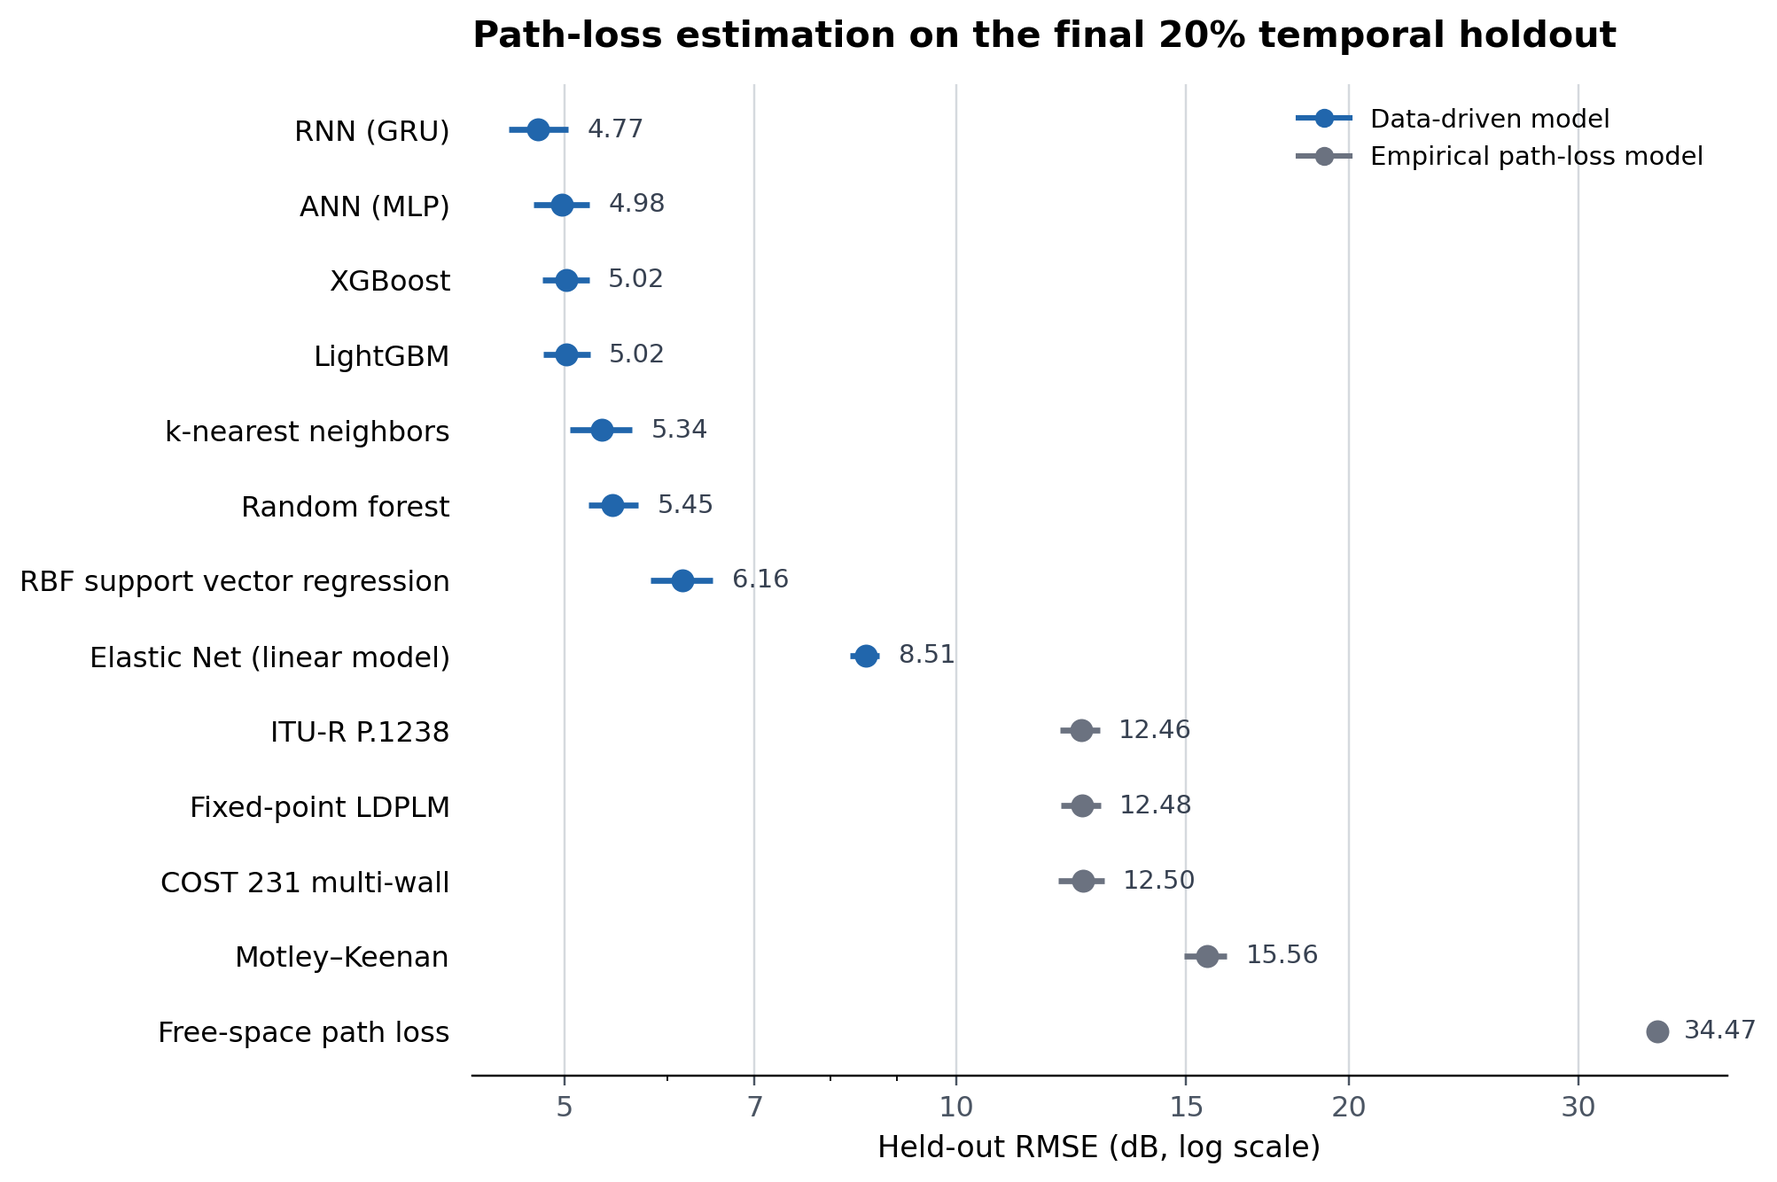
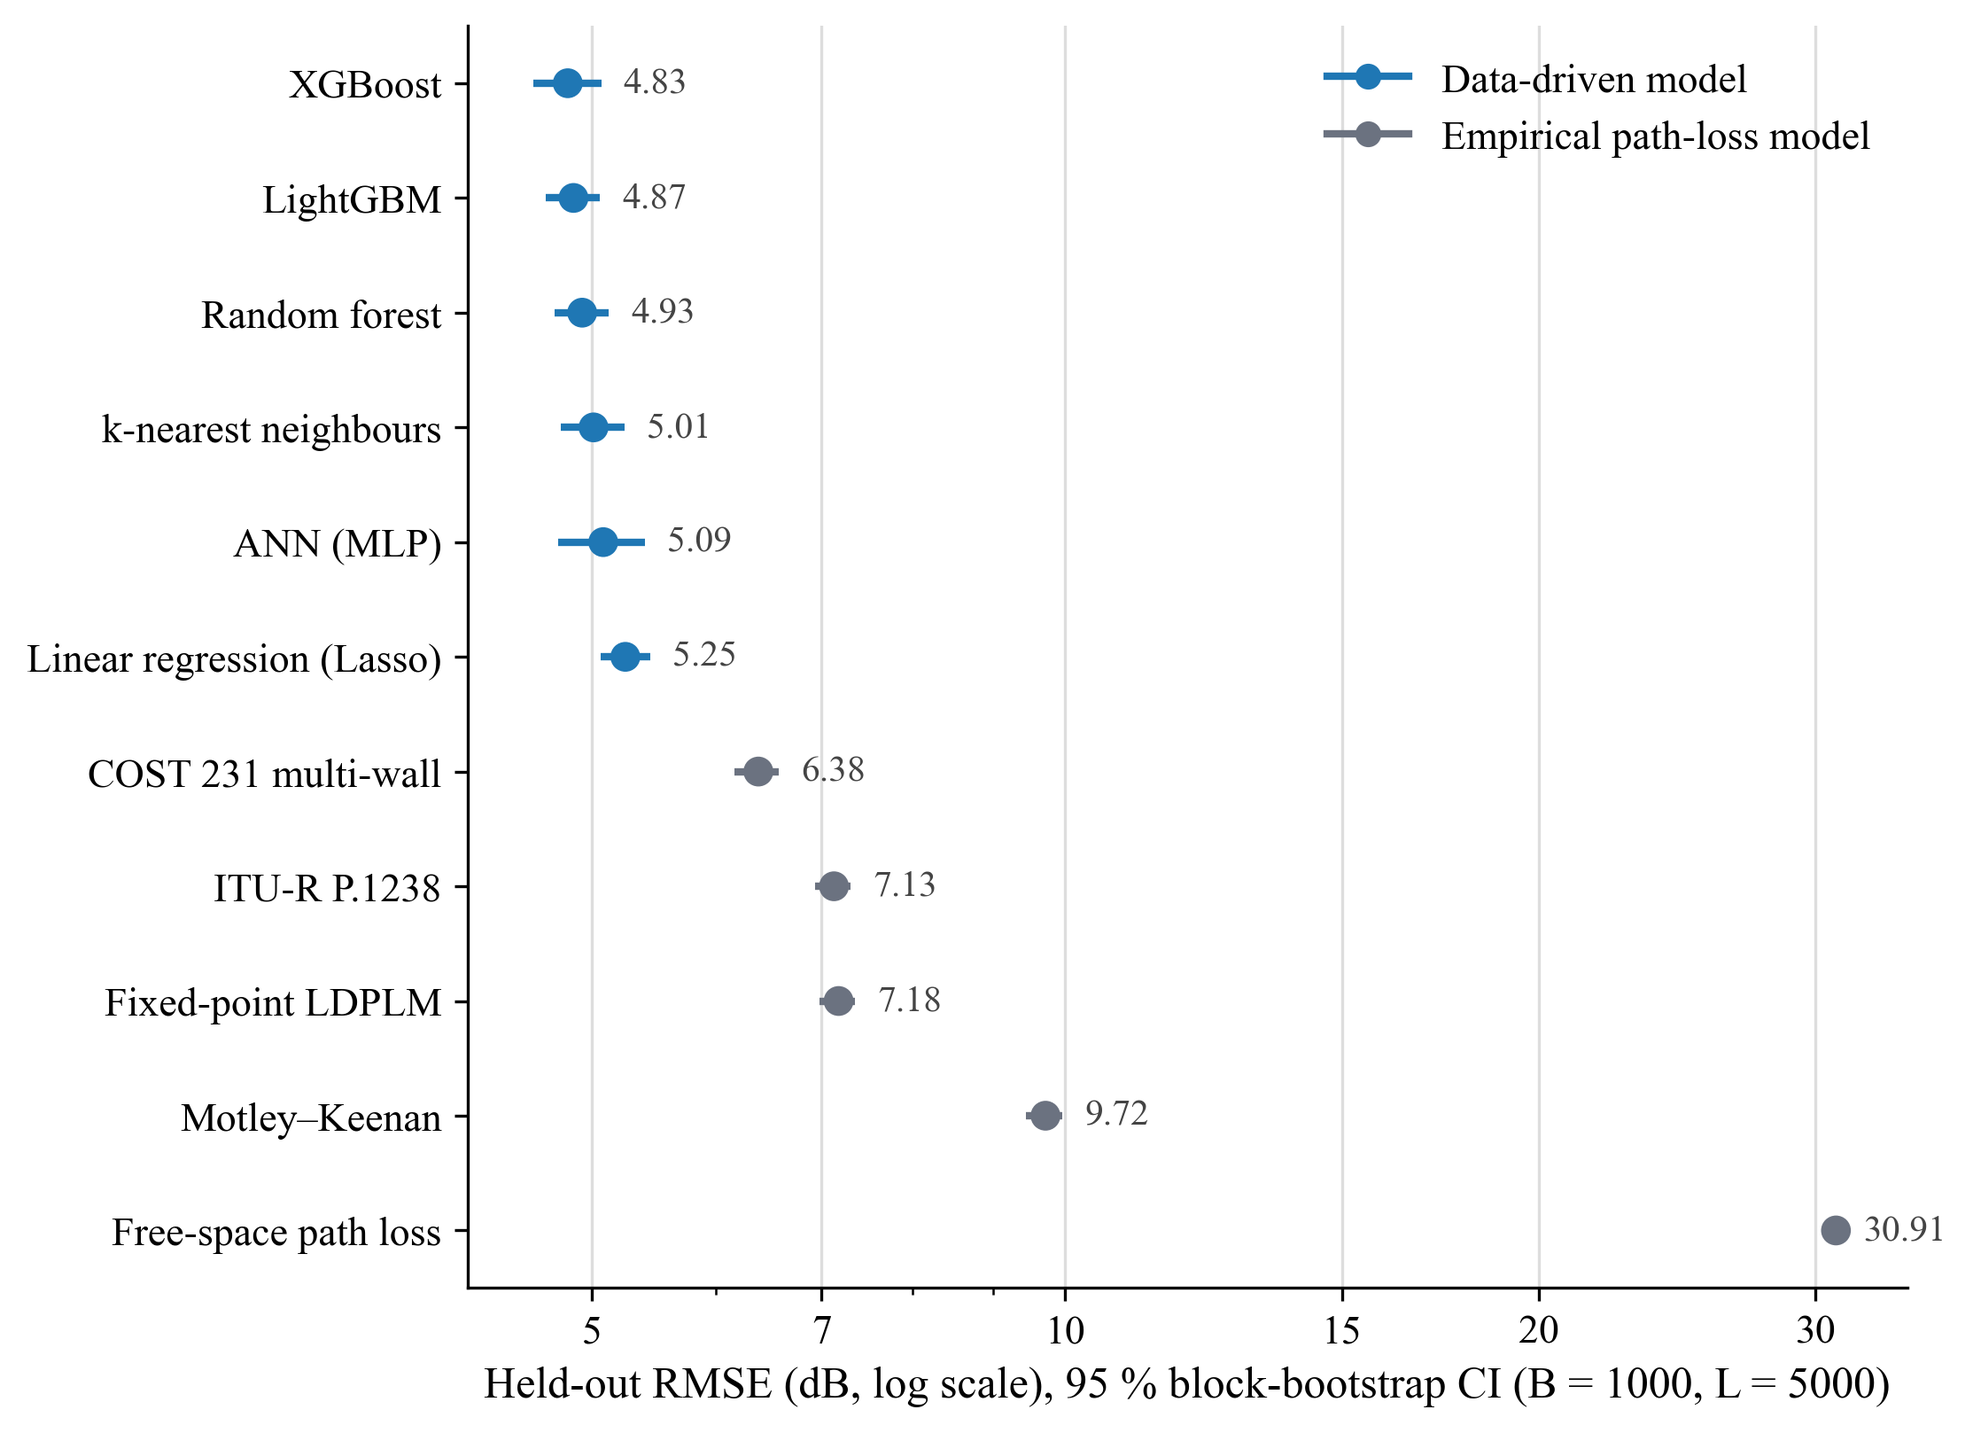
README: corrected-data results, forward-chaining protocol, history rungs, notebook table, run times
Replaces the figure and numbers of the earlier manuscript run; adds the information-rung figure.

diff --git a/README.md b/README.md
@@ -1,6 +1,6 @@
 # Indoor LoRaWAN path loss modeling
 
-**Temporally separated evaluation of analytical and empirical propagation models and machine learning regressors, with residual-tail calibration of fade margins.**
+**Temporally separated evaluation of analytical and empirical propagation models and machine learning regressors, with residual-tail calibration of fade margins as a function of what the predictor knows.**
 
 [![Dataset](https://img.shields.io/badge/dataset-Zenodo-1682D4?logo=zenodo&logoColor=white)](https://doi.org/10.5281/zenodo.15349730)
 [![Data paper](https://img.shields.io/badge/data%20paper-IEEE%20Access-00629B?logo=ieee&logoColor=white)](https://doi.org/10.1109/ACCESS.2025.3569164)
@@ -8,57 +8,101 @@
 
 ## Aim
 
-This study compares analytical and empirical indoor propagation laws, linear models, tree ensembles, kernel methods, nearest-neighbour regression, and neural networks on a later period of LoRaWAN path loss measurements. It then uses out-of-fold errors to estimate fade margins at specified residual-coverage targets.
+This study compares analytical and empirical indoor propagation laws, linear models, tree ensembles, nearest-neighbour regression and neural networks on a later period of LoRaWAN path loss measurements. It then uses out-of-fold errors to estimate fade margins at specified residual-coverage targets, and asks how those margins depend on what the predictor knows: geometry and environmental sensors only, or also the link's own earlier packets.
 
-RMSE and the upper residual tail are distinct objectives. The RNN gives the lowest held-out RMSE, while the random forest has the lowest calibrated margin point estimate at a 99% residual-coverage target.
+RMSE and the upper residual tail are distinct objectives. With geometry and sensors alone the 99% fade margin is 18.9 to 19.3 dB for every model, although held-out RMSE ranges from 4.8 to 6.4 dB. With the link's earlier packets it falls to 9 to 12 dB, and to 4 to 5 dB when the margin follows the state of the link.
 
 ## Experimental design
 
-The analysis uses 2,079,534 timestamped observations from six fixed indoor links collected over one year in an office environment at the University of Siegen. The predictors are distance, carrier frequency, concrete- and wood-wall counts, CO₂, relative humidity, PM2.5, pressure, temperature, and contemporaneous SNR; the response is path loss derived from received signal strength.
+The analysis uses 2,660,274 timestamped observations from six fixed indoor links collected from 1 October 2024 to 30 September 2025 in an office environment at the University of Siegen, at spreading factors 7 to 12. The static predictors are distance, carrier frequency, concrete- and wood-wall counts, CO₂, relative humidity, PM2.5, pressure and temperature; the response is path loss derived from the received signal strength at the project gateway. The SNR of the packet being predicted is not a predictor. The history rungs described below add inputs computed from the link's earlier packets only.
 
 The evaluation protocol is deliberately chronological:
 
 1. The earliest 80% of observations form the training period; the latest 20% are held out.
-2. Hyperparameters are selected only within the training period using five expanding-window folds.
+2. Hyperparameters are selected only within the training period, using five forward-chaining folds: each validation block is predicted by models trained on the blocks before it.
 3. Out-of-fold residuals from those folds are used for residual-tail modelling and fade-margin calibration.
 4. The untouched later period is used for final error and residual-coverage assessment.
 
-This gives 1,663,627 training observations and 415,907 test observations. The training window spans 1 October 2024 to 12 August 2025; the test window continues to 30 September 2025. Where scaling is used, it is fitted within each fold. RNN sequences are constructed within device and fold boundaries.
+This gives 2,128,219 training observations (1 October 2024 to 21 July 2025) and 532,055 test observations (21 July to 30 September 2025). The first block of 354,704 rows is only ever training data; the five following blocks of 354,703 rows give 1,773,515 out-of-fold residuals per model. Where scaling is used, it is fitted within each fold.
 
-The holdout tests temporal transfer within the same building and six links. Because SNR is measured from the same received packet as the response, the reported task is conditional post-reception estimation, not pre-transmission forecasting. It is also not evidence of generalisation to unseen buildings or link geometries.
+The end devices were restricted to spreading factors 7 to 10 in July 2025. The hold-out therefore contains SF11 or SF12 in only 33 of its rows, against 17 to 28% of the rows in the validation blocks, and margins calibrated on the validation blocks are conservative on it. The hold-out tests temporal transfer within the same building and six links; an unseen-link test fits on five links and predicts the sixth. Neither is evidence of generalisation to other buildings or link geometries.
 
-Two training exceptions are explicit in the notebooks: ANN and RNN retain the latest training-period fold for early stopping, and exact SVR uses a temporally stratified 50% training subsample for computational tractability.
+Early stopping uses the latest part of each training set in time order: the latest training block for the ANN of notebook `07`, the latest 10% of the rows for the ANN and the GRU of the history notebooks.
 
-## Main result
+## Main results
+
+### Static models
 
 ![Held-out RMSE for the evaluated models](docs/assets/held-out-rmse.png)
 
-*Held-out path loss error on the 415,883 rows common to all models. Points are RMSE; bars are 95% circular moving-block-bootstrap intervals (1,000 replicates; block length 5,000). Intervals quantify test-sampling uncertainty with fitted models held fixed.*
+*Held-out path loss error on the 532,055 rows common to all models. Points are RMSE; bars are 95% circular moving-block-bootstrap intervals (1,000 replicates; block length 5,000). Intervals quantify test-sampling uncertainty with fitted models held fixed.*
 
-The RNN attained 4.77 dB RMSE (95% CI 4.54–5.04), compared with 4.98 dB for the ANN and 5.02 dB for both XGBoost and LightGBM. Paired bootstrap differences place the RNN ahead of the ANN by 0.205 dB (95% CI 0.162–0.247) and XGBoost by 0.242 dB (0.089–0.381); pairwise intervals among the ANN, XGBoost, and LightGBM include zero. The strongest empirical path loss models remain near 12.5 dB RMSE.
+| Model | Out-of-fold RMSE | Held-out RMSE | Held-out R² | 95% margin | 99% margin |
+|---|---|---|---|---|---|
+| COST 231 multi-wall (calibrated) | 7.27 | 6.38 | 0.845 | 11.6 | 18.9 |
+| Linear regression (Lasso) | 6.56 | 5.25 | 0.895 | 11.2 | 19.2 |
+| Random forest | 6.32 | 4.93 | 0.907 | 11.0 | 19.2 |
+| XGBoost | 6.36 | 4.83 | 0.911 | 11.3 | 19.2 |
+| LightGBM | 6.34 | 4.87 | 0.910 | 10.7 | 19.2 |
+| k-nearest neighbours | 6.68 | 5.01 | 0.904 | 11.3 | 18.9 |
+| ANN (MLP) | 6.58 | 5.09 | 0.901 | 11.7 | 19.3 |
 
-Point error and upper-tail margin requirements rank the models differently. At a 99% residual-coverage target, the lowest calibrated point estimate is from the random forest (17.74 dB; held-out residual coverage 99.62%), followed by XGBoost (17.85 dB), LightGBM (17.93 dB), ANN (18.01 dB), and RNN (18.36 dB). At the 98% and 99% targets, calibration takes the conservative maximum of the empirical and three-component Gaussian-mixture tail estimates; the 95% target uses the empirical quantile. Empirical-quantile intervals use device-aware moving blocks; Gaussian-mixture tail intervals are parametric.
+*RMSE in dB. Out-of-fold RMSE pools the 1,773,515 validation rows; R² is computed from the held-out residual files; margins in dB at the 95% and 99% residual-coverage targets.*
+
+XGBoost leads at 4.83 dB (95% CI 4.59 to 5.07). The paired block bootstrap resolves it ahead of the random forest, kNN, the ANN and the linear model, by 0.10 to 0.42 dB, but not ahead of LightGBM; kNN, the ANN and the random forest are tied with one another. Every data-driven model beats the calibrated COST 231 multi-wall model by at least 1.1 dB and the fixed-parameter propagation models by at least 1.9 dB.
+
+At a 99% residual-coverage target every static model needs 18.9 to 19.3 dB, at 98% 16.1 to 16.7 dB and at 95% 10.7 to 11.7 dB; the largest saving against the linear model at 99% is 0.29 dB. At the 98% and 99% targets calibration takes the conservative maximum of the empirical and three-component Gaussian-mixture tail estimates; the 95% target uses the empirical quantile. Held-out coverage at the 99% margin is 99.7 to 99.8%, and a fixed 10 dB margin reaches 96.0 to 98.2%. Empirical-quantile intervals use device-aware moving blocks; Gaussian-mixture tail intervals are parametric.
+
+### Link history
+
+![Hold-out RMSE and 99% fade margin by information rung and model family](docs/assets/information-by-family.png)
+
+*Hold-out RMSE (left) and calibrated 99% fade margin (right) by information rung and model family. Dashed: each link's mean path loss; dotted: the previous-hour mean.*
+
+From here the response is the deviation of path loss from the link's previous-hour mean, so the inputs are level-free and a model that learns nothing scores as the previous-hour mean. The rungs are cumulative: (1) the link's earlier path loss as lags and windows from five packets to seven days; (2) the history of the same channel, the clock and the spreading factor; (3) the SNR of earlier packets and the environmental sensors; (4) the link's level and its geometry. Every feature of a packet uses earlier packets of the same link only.
+
+| Family | Geometry + sensors | + link history | + channel, clock, SF | + earlier SNR, sensors | + link level, geometry |
+|---|---|---|---|---|---|
+| Linear regression | 5.25 / 19.2 | 2.51 / 11.8 | 2.39 / 11.7 | 2.37 / 11.4 | 2.37 / 11.4 |
+| Random forest | 4.93 / 19.2 | 2.35 / 11.0 | 1.98 / 10.2 | 1.87 / 10.5 | 1.87 / 10.4 |
+| XGBoost | 4.83 / 19.2 | 2.34 / 10.9 | 1.95 / 10.0 | 1.82 / 10.2 | 1.82 / 10.1 |
+| LightGBM | 4.87 / 19.2 | 2.34 / 10.8 | 1.95 / 10.0 | 1.82 / 10.2 | 1.82 / 10.1 |
+| k-nearest neighbours | 5.01 / 18.9 | 2.46 / 11.2 | 2.16 / 10.7 | 2.16 / 11.0 | 2.19 / 11.1 |
+| ANN (MLP) | 5.09 / 19.3 | 2.50 / 11.1 | 1.99 / 10.1 | 1.92 / 10.4 | 1.92 / 10.4 |
+| GRU | not defined | 2.55 / 9.2 | 2.27 / 9.0 | 2.22 / 9.3 | 2.23 / 9.2 |
+
+*Hold-out RMSE / 99% fade margin, both in dB. The first column is the static model of the table above. The GRU reads the last 30 packets of the link and is defined only where a history exists. Without a fitted model: link mean 5.04 dB / 19.0 dB; previous-hour mean 2.71 dB / 12.0 dB; previous packet 3.04 dB / 12.5 dB.*
+
+Adding the link's earlier packets halves RMSE and brings the 99% margin from about 19 dB to between 9 and 12 dB in every family. The later rungs lower RMSE further, to 1.8 dB for the boosted trees, but leave the margin near 10 dB: channel, clock, spreading factor, earlier SNR, sensors and geometry do not reduce the deep-fade tail. The boosted trees, the random forest and the ANN end within 0.1 dB of one another at the last rung; kNN, the GRU and the linear model are 0.4 to 0.6 dB behind. The GRU, which reads the raw sequence, does not improve on the engineered windows.
+
+Fitted on five links and tested on the sixth (rung 2), the tree ensembles reach 2.0 dB on average, 2.2 dB on the worst link and within 0.1 dB of the same models with the link in training; the linear model, kNN, the ANN and the GRU reach 2.1 to 2.4 dB. Coverage at the calibrated 99% margin is 99.7% on the unseen link (99.3% for the GRU).
+
+### Margins that follow the link
+
+Quantile models predict the margin itself from the same inputs (LightGBM and XGBoost with quantile objectives, the ANN with the pinball loss). Mean margin above the prediction at rung 2, with hold-out coverage:
+
+| Target | One fixed margin above the previous-hour mean | LightGBM quantile | XGBoost quantile | ANN quantile |
+|---|---|---|---|---|
+| 90% | 3.8 dB (91.7%) | 2.2 dB (90.1%) | 2.2 dB (90.0%) | not fitted |
+| 95% | 5.3 dB (96.7%) | 3.0 dB (95.3%) | 2.9 dB (95.3%) | not fitted |
+| 99% | 10.6 dB (99.8%) | 4.7 dB (99.3%) | 4.7 dB (99.3%) | 4.9 dB (99.2%) |
+
+The 99% margin of the LightGBM quantile model is 5.6 dB in working hours and 4.3 dB otherwise. At one uplink every 10 minutes LightGBM on rung 2 reaches 2.3 dB RMSE and a 99% margin of 10.4 dB, against 2.7 dB and 11.9 dB for the mean of the previous 20 packets; at one uplink per hour it reaches 2.6 dB and 11.8 dB, against 3.2 dB and 13.1 dB.
 
 ## Model scope
 
 | Class | Models |
 |---|---|
-| Propagation baselines | Free-space path loss, fixed-point LDPLM, Motley–Keenan, COST 231 multi-wall, ITU-R P.1238 |
-| Linear | OLS, Ridge, Lasso, Elastic Net |
-| Nonlinear classical ML | Random forest, XGBoost, LightGBM, k-nearest neighbours, RBF-SVR |
-| Neural | Multilayer perceptron, GRU recurrent network |
+| Propagation baselines | Free-space path loss, fixed-point LDPLM, Motley–Keenan, COST 231 multi-wall (constant and wall losses calibrated by regression), ITU-R P.1238 |
+| Linear | OLS, Ridge, Lasso, Elastic Net; the Lasso, selected by cross-validation, is the benchmark entry |
+| Nonlinear classical ML | Random forest, XGBoost, LightGBM, k-nearest neighbours |
+| Neural | Multilayer perceptron; GRU on the sequence of the link's earlier packets (history rungs only) |
 
 Residual analyses test normality and tail shape, compare Gaussian-mixture representations, calibrate coverage-specific fade margins, inspect held-out margin exceedances, and use a paired block bootstrap for model comparisons.
 
 ## Reproduce the analysis
 
-The reported model runs used Python 3.12. Download the current cleaned dataset and place it at the path expected by notebook `00`:
-
-```bash
-mkdir -p Data_Files
-curl -L https://zenodo.org/api/records/19089760/files/3.cleaned_dataset_per_device.csv/content -o Data_Files/cleaned_dataset_per_device.csv
-printf '%s  %s\n' 281a4f3c630d0fce9655fad1a7df3c33 Data_Files/cleaned_dataset_per_device.csv | md5sum --check
-```
+The reported model runs used Python 3.12. Notebook `00` reads the cleaned dataset from `../all_data_files/cleaned_dataset_per_device.csv`, a path relative to the repository root. The file has 2,660,274 rows at spreading factors 7 to 12, with RSSI and SNR taken from the project gateway and pressure in hPa, and is written by notebooks 02 to 04 of the [data pipeline repository](https://github.com/nahshonmokua/LoRaWAN-Indoor-Path-Loss-Modelling-with-MultiWall-Environment-Factors).
 
 Create the main environment from [`requirements.txt`](requirements.txt):
 
@@ -71,7 +115,9 @@ python -m ipykernel install --user --name lorawan-pathloss --display-name "Pytho
 jupyter lab
 ```
 
-Notebook `06` requires a separate CUDA 12/RAPIDS environment. The versions used for the reported kNN run are recorded in [`requirements-rapids-cu12.txt`](requirements-rapids-cu12.txt):
+The GRU notebook trains on a GPU. Install TensorFlow with its CUDA libraries instead of the plain pin, for example `python -m pip install "tensorflow[and-cuda]==2.21.0"`.
+
+Notebooks `06` and `14` require a separate CUDA 12/RAPIDS environment. The versions used for the reported kNN runs are recorded in [`requirements-rapids-cu12.txt`](requirements-rapids-cu12.txt):
 
 ```bash
 python3.12 -m venv .venv-rapids
@@ -81,20 +127,39 @@ python -m pip install -r requirements-rapids-cu12.txt
 python -m ipykernel install --user --name lorawan-pathloss-rapids --display-name "Python (LoRaWAN path loss, RAPIDS)"
 ```
 
-Select the RAPIDS kernel for `06_kNN.ipynb`; use the main kernel for the other notebooks.
+Select the RAPIDS kernel for `06_kNN.ipynb` and `14_History_kNN.ipynb`; use the main kernel for the other notebooks.
 
 Run the numbered notebooks from the repository root. Their order is the dependency graph:
 
 | Stage | Notebook(s) | Output |
 |---|---|---|
-| Split and folds | [`00_Data_Preparation.ipynb`](00_Data_Preparation.ipynb) | Chronological train/test data and expanding-window indices |
+| Split and folds | [`00_Data_Preparation.ipynb`](00_Data_Preparation.ipynb) | Chronological train/test data and forward-chaining fold indices |
 | Baselines | [`01_Empirical_PLMs.ipynb`](01_Empirical_PLMs.ipynb), [`02_MLR.ipynb`](02_MLR.ipynb) | Empirical and linear-model fits and residuals |
 | Nonlinear models | `03_RF.ipynb` through `07_ANN.ipynb` | Selected models and out-of-fold/test residuals |
 | Residual tails | [`08_SHADOW FADING ANALYSIS.ipynb`](08_SHADOW%20FADING%20ANALYSIS.ipynb) | Distribution and Gaussian-mixture diagnostics |
 | Margin calibration | [`09_FADE MARGIN ANALYSIS.ipynb`](09_FADE%20MARGIN%20ANALYSIS.ipynb) | Calibrated fade margins and held-out residual coverage |
 | Synthesis | [`10_General_Comparisons.ipynb`](10_General_Comparisons.ipynb), [`11_Bootstrap_Model_Comparison.ipynb`](11_Bootstrap_Model_Comparison.ipynb) | Cross-model figures and paired uncertainty estimates |
+| Link history | [`12_History_Features.ipynb`](12_History_Features.ipynb), [`history_features.py`](history_features.py) | Causal link-history inputs for the rungs |
+| History models | `13_History_Models.ipynb` (linear, random forest, XGBoost, LightGBM, ANN), `14_History_kNN.ipynb`, `15_History_GRU.ipynb` | Residuals per family and rung, unseen-link test |
+| Information tables | [`16_Information_by_Family.ipynb`](16_Information_by_Family.ipynb) | Rung by family tables and figure, quantile margins, sparse uplinks |
 
-The full benchmark is compute-intensive. XGBoost is configured for CUDA. ANN/RNN screening used a GPU, whereas multi-seed selection and final ensembles were run on deterministic CPU. The recorded SVR search alone required approximately 4.8 days with 12 parallel workers. Executed result cells document the reported runs, but generated search tables, data, models, residuals, and bulk analysis figures are intentionally excluded from version control and must be regenerated for a clean reproduction; the curated figure above is retained. Several notebook figures request Times New Roman and fall back to an installed font when it is unavailable.
+The full benchmark is compute-intensive. Approximate wall-clock times on a workstation with 32 CPU cores, 60 GB of RAM and one NVIDIA RTX 5090:
+
+| Notebook | Time |
+|---|---|
+| `03_RF` | 5.2 h (Bayesian search, 60 candidates) |
+| `04_XGBoost` | 8 min (CUDA) |
+| `05_LightGBM` | 48 min |
+| `06_kNN` | 13.7 h (400 candidates, RAPIDS GPU) |
+| `07_ANN` | 4.0 h (CPU, deterministic operations; two-stage screen, 30-seed final ensemble) |
+| `09_FADE MARGIN ANALYSIS` | 1.0 h |
+| `12_History_Features` | 8 min |
+| `13_History_Models` | 3.2 h |
+| `14_History_kNN` | 20 min |
+| `15_History_GRU` | 3.9 h (GPU) |
+| `16_Information_by_Family` | 33 min |
+
+The other notebooks take minutes. Executed result cells document the reported runs, but generated search tables, data, models, residuals, and bulk analysis figures are intentionally excluded from version control and must be regenerated for a clean reproduction; the curated figures above are retained. Several notebook figures request Times New Roman and fall back to an installed font when it is unavailable.
 
 ## Data and citation
 
